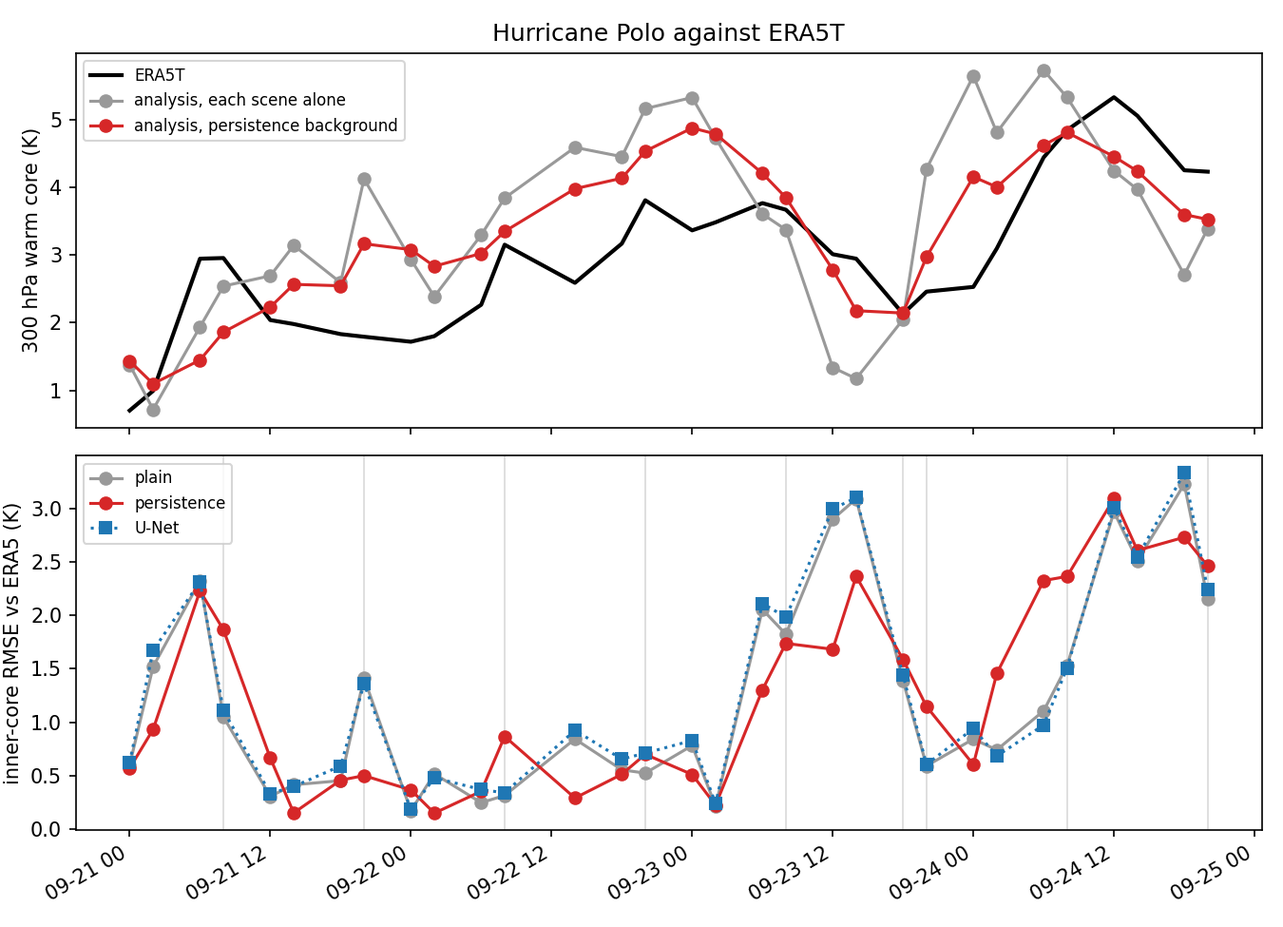
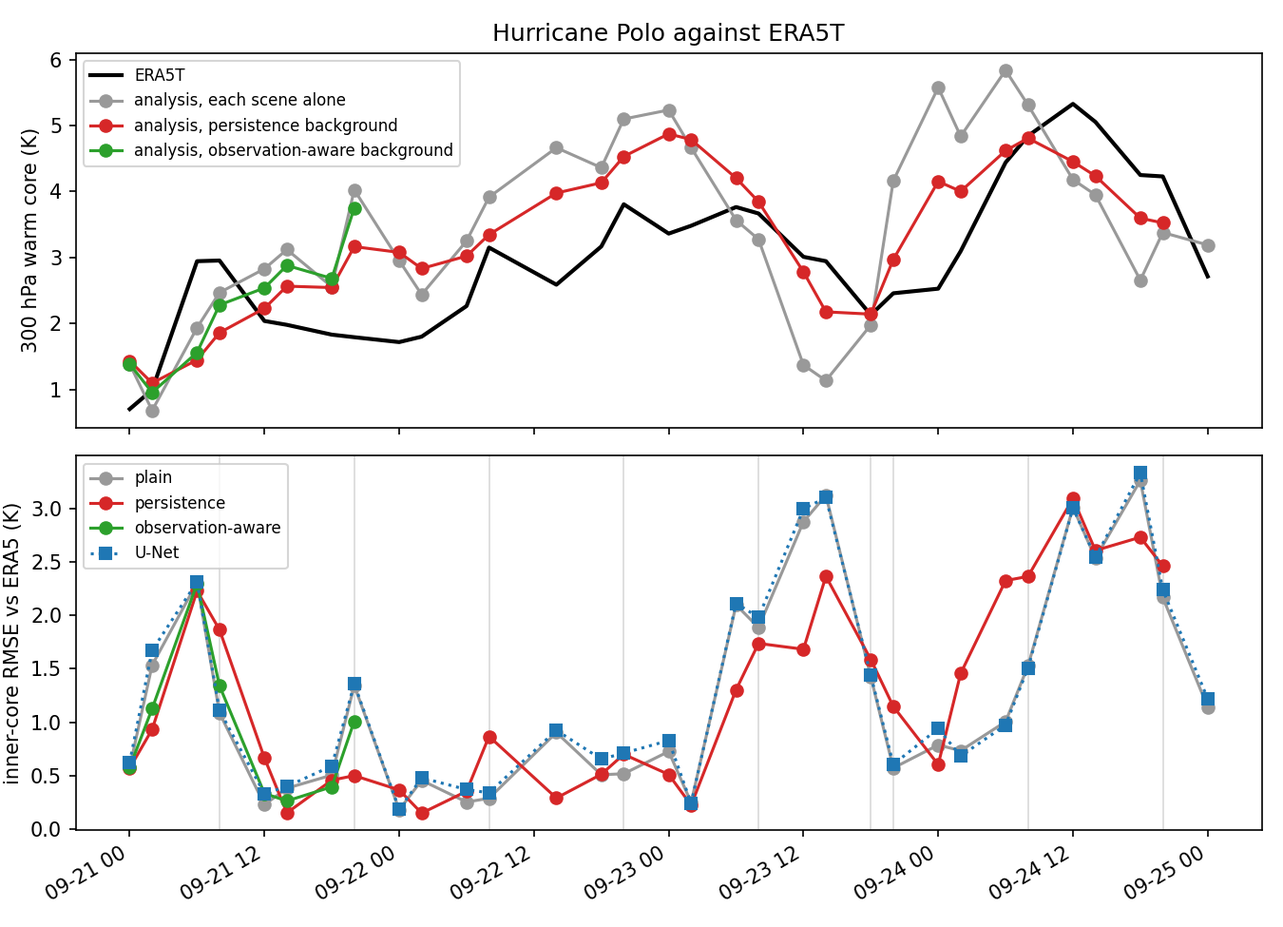
Polo scored against ERA5T: 1.20 K inner core on sounder scenes; persistence background shown to be a smoother

diff --git a/dashboard/index.html b/dashboard/index.html
@@ -220,6 +220,13 @@
   </div>
   <figure class="fig"><img src="img/polo_structure.webp" width="2940" height="672" loading="lazy" decoding="async" alt="Polo at 20 UTC on 22 September: observed GOES-19 channel 13, the retrieved 300 hPa temperature anomaly, the retrieved rain with IMERG contours, and a west to east cross-section of the temperature anomaly"></figure>
   <div class="callout"><p>Without a reanalysis, the checks are the ones a live system would have: does the analysis fit the sounder to within its assigned error, does the rain agree with IMERG, and does the core follow the storm. It does all three. The warm-core curve is the life history of the storm read from the satellites alone: the climb through the 21st, 5.2 and 5.3 K around the peak, the collapse to 1.2 K on the afternoon of the 23rd as the outer eyewall took over, and the recovery to 5.7 K at 00 UTC on the 24th. The cross-section at the peak overpass puts the core at 300 hPa, where a mature hurricane keeps it, and 26 of the 31 scenes peak between 250 and 400 hPa; the exceptions are the first hours and the replacement cycle. Rain over the domain agrees with IMERG to 5.9 mm/h, the same for the direct U-Net and the full system. The honest parts, again: the retrieved core is a trend indicator, not the physical core of a 892 hPa storm, which is far above 5 K; on the sounder scenes the inner-core rain (30 mm/h on average against IMERG's 14) is overestimated because the clear-sky microwave operator reads eyewall ice scattering as rain, and the U-Net does the same, so this is the operator's limitation from the cloud-ice audit showing up on a live case; the core spread is 0.07 to 0.14 K, as underdispersive as before; and the infrared-only hours between overpasses are noisier than the sounder hours, as on Melissa. The ERA5 comparison is added when ERA5T reaches the period, by rebuilding the same scenes with labels and rescoring the same analyses; nothing on the retrieval side changes.</p></div>
+  <h3>Scored against the reanalysis, two weeks later</h3>
+  <p>ERA5T for 21 to 25 September became available in early October. The scenes were rebuilt with the temperature label (32 scenes: the 31 above plus 00 UTC on the 25th, every scene file checksummed into the analyses it feeds) and the retrieval was run again, unchanged. The live analyses hold up: the inner-core 300 hPa error on the sounder scenes is 1.20 K, between Milton (1.13 K) and the 1.5 to 2 K of the Milton scenes without an overpass, and the whole-domain, all-level error is 1.38 K. The direct U-Net is within 0.05 K of the full system on every one of these numbers, as on Milton and Melissa. The ERA5 warm core peaks at 3.8 K against the retrieved 5.2 K, the same direction as on Milton, where the reanalysis is known to understate the core. The two periods the retrieval gets wrong are the eyewall replacement (06 to 14 UTC on the 23rd, where ERA5 keeps the core at 3 to 3.8 K while the retrieval collapses to 1.1 to 1.4 K; errors of 2 to 3 K) and the second half of the 24th, where the retrieval weakens the storm 6 to 12 hours before ERA5 does (2.5 to 3.3 K). Both are infrared-only stretches, both are shared by the U-Net, and both point at the same thing: when the eye is covered, the proxy reads the cold cloud top as a weaker core.</p>
+  <div class="tiles">
+    <div class="tile"><div class="n">1.20<span class="u">K</span></div><div class="l">inner-core 300 hPa RMSE against ERA5T on the nine sounder scenes (1.26 K over all 32; direct U-Net 1.25 and 1.31 K)</div></div>
+    <div class="tile"><div class="n">1.38<span class="u">K</span></div><div class="l">whole-domain RMSE over all ten levels (Milton 1.77 K, Melissa 1.15 K; U-Net 1.38 K)</div></div>
+    <div class="tile"><div class="n">0.53</div><div class="l">rank correlation of the retrieved 300 hPa warm-core series with the ERA5 one, bias +0.47 K, RMSE 1.31 K; the replacement cycle and the late 24th carry most of it</div></div>
+  </div>
   <h3>Time continuity: the previous analysis as a background</h3>
   <p>Each scene above was analysed on its own, which is why the warm-core curve jumps between neighbouring hours (4.1 K at 20 UTC on the 21st, 2.9 K four hours later). The first improvement to the system since Milton adds the analysis of the previous scene to the likelihood as a persistence background, member k conditioned on member k, with an error that grows with the age of that analysis: sigma squared equals 0.3 squared plus 0.15 squared times the gap in hours, in normalised units, so 0.37 at two hours and 0.47 at six, against 0.5 for the proxy term. No retraining, one flag (--persist 0.3), the scenes processed in time order. The 31 Polo scenes were rerun this way and scored against the plain run. The two runs used independent sampling noise (the first scene, which has no background, differs by 0.06 K between them for that reason alone); a seed option now pairs the noise scene by scene and member by member, and the paired rerun is the next step.</p>
   <figure class="fig"><img src="img/polo_persist.webp" width="1350" height="540" loading="lazy" decoding="async" alt="Polo 300 hPa warm core through time: each scene analysed alone in grey, with the previous analysis as background in red, and the best-track wind dashed"></figure>
@@ -229,12 +236,13 @@
     <div class="tile"><div class="n">&lt; 0.05<span class="u">K</span></div><div class="l">change in the bias-corrected sounder fit on every calibrated channel (3.93 / 2.28 / 1.20 / 0.68 / 0.64 to 3.91 / 2.33 / 1.24 / 0.72 / 0.60 K on ATMS 5 to 9, all nine overpasses pooled per channel)</div></div>
   </div>
   <div class="callout"><p>The background smooths the series without costing anything in observation space: the analyses fit the sounder as well as before and follow the intensity better. Two costs are visible and stated. The extremes are pulled in, the peak from 5.7 to 4.9 K and the eyewall-replacement minimum from 1.2 to 2.1 K, because the background counts about as much as the proxy. And the ensemble spread falls from 0.07 to 0.05 K: conditioning member k on its own past makes the members more alike, so the spread problem noted on all three storms is made slightly worse, and the next change to the system is spread calibration (more members, an inflated background, or a background drawn from a different member). The warm start option, in which each chain begins from the previous analysis diffused to mid-noise rather than from pure noise, is in the code but was not used for these numbers.</p></div>
+  <div class="callout"><p>Against ERA5T the verdict is plainer: the background is a smoother, not a better analysis. The warm-core series agrees with ERA5 better as a curve (RMSE 1.31 to 0.89 K, rank correlation 0.53 to 0.74) but the inner-core error on the sounder scenes rises from 1.20 to 1.47 K, because the background keeps pulling each sounder analysis toward an infrared-only predecessor. A causal exponential smoother with a six-hour time constant, applied to the plain series after the fact, reproduces the persistence numbers almost exactly (0.89 K, 0.76), which is what settles it. An observation-aware variant, in which the background counts for less after an infrared-only analysis and on a sounder scene, lands between the two on the first day (1.35 K on the sounder scenes in the unpaired run); the paired rerun on the rebuilt scenes is in progress. One provenance note: the persistence runs used an earlier cut of the seven 24 September scenes with 72 to 90 percent infrared coverage, so the 24th is not a like-for-like comparison, which is why every analysis now records the checksum of the scene it was made from. The option stays off by default.</p></div>
   <p class="fine tblcap">Polo, scene by scene (each scene analysed alone). Best track: NHC b-deck wind (kt) and pressure (hPa) interpolated to the analysis time. Warm core: 5 x 5 pixel centre minus the environment beyond 48 pixels, at 300 hPa; peak: the level where the anomaly is largest. Rain: mean rate in the central 16 x 16 pixels (about 70 km) for the analysis and for IMERG Late or Early Run. Fit: RMSE of simulated minus observed ATMS brightness temperature after the calibrated bias is removed, channels 7 / 8 / 9, on the overpass scenes.</p>
   <div class="tbl"><table>
     <thead><tr><th>time</th><th>ATMS</th><th>wind (kt)</th><th>MSLP (hPa)</th><th>warm core (K)</th><th>peak (hPa)</th><th>core rain (mm/h)</th><th>IMERG (mm/h)</th><th>fit 7 / 8 / 9 (K)</th></tr></thead>
     <tbody><tr><td>21 Sep 00 UTC</td><td>no</td><td>35</td><td>1004</td><td>1.38</td><td>600</td><td>4.2</td><td>1.9</td><td></td></tr><tr><td>21 Sep 02 UTC</td><td>no</td><td>37</td><td>1004</td><td>0.72</td><td>600</td><td>6.5</td><td>9.2</td><td></td></tr><tr><td>21 Sep 06 UTC</td><td>no</td><td>40</td><td>1003</td><td>1.94</td><td>300</td><td>8.3</td><td>7.6</td><td></td></tr><tr><td>21 Sep 08 UTC</td><td>yes</td><td>45</td><td>1001</td><td>2.54</td><td>300</td><td>41.5</td><td>8.0</td><td>0.8 / 0.6 / 0.8</td></tr><tr><td>21 Sep 12 UTC</td><td>no</td><td>55</td><td>997</td><td>2.69</td><td>300</td><td>10.4</td><td>11.5</td><td></td></tr><tr><td>21 Sep 14 UTC</td><td>no</td><td>60</td><td>991</td><td>3.14</td><td>300</td><td>12.2</td><td>11.5</td><td></td></tr><tr><td>21 Sep 18 UTC</td><td>no</td><td>70</td><td>978</td><td>2.59</td><td>300</td><td>10.8</td><td>13.1</td><td></td></tr><tr><td>21 Sep 20 UTC</td><td>yes</td><td>77</td><td>974</td><td>4.12</td><td>300</td><td>42.1</td><td>7.6</td><td>1.2 / 0.7 / 0.7</td></tr><tr><td>22 Sep 00 UTC</td><td>no</td><td>90</td><td>967</td><td>2.93</td><td>300</td><td>11.4</td><td>18.2</td><td></td></tr><tr><td>22 Sep 02 UTC</td><td>no</td><td>100</td><td>960</td><td>2.39</td><td>300</td><td>10.5</td><td>16.5</td><td></td></tr><tr><td>22 Sep 06 UTC</td><td>no</td><td>120</td><td>945</td><td>3.29</td><td>300</td><td>11.1</td><td>13.9</td><td></td></tr><tr><td>22 Sep 08 UTC</td><td>yes</td><td>127</td><td>939</td><td>3.84</td><td>300</td><td>42.8</td><td>16.5</td><td>1.3 / 0.7 / 0.6</td></tr><tr><td>22 Sep 14 UTC</td><td>no</td><td>145</td><td>915</td><td>4.59</td><td>300</td><td>17.4</td><td>13.4</td><td></td></tr><tr><td>22 Sep 18 UTC</td><td>no</td><td>155</td><td>892</td><td>4.45</td><td>300</td><td>13.5</td><td>14.0</td><td></td></tr><tr><td>22 Sep 20 UTC</td><td>yes</td><td>152</td><td>896</td><td>5.16</td><td>300</td><td>46.4</td><td>22.0</td><td>1.2 / 0.9 / 0.5</td></tr><tr><td>23 Sep 00 UTC</td><td>no</td><td>145</td><td>905</td><td>5.32</td><td>300</td><td>15.7</td><td>23.0</td><td></td></tr><tr><td>23 Sep 02 UTC</td><td>no</td><td>143</td><td>908</td><td>4.72</td><td>300</td><td>12.5</td><td>16.3</td><td></td></tr><tr><td>23 Sep 06 UTC</td><td>no</td><td>140</td><td>915</td><td>3.60</td><td>300</td><td>9.6</td><td>10.7</td><td></td></tr><tr><td>23 Sep 08 UTC</td><td>yes</td><td>137</td><td>918</td><td>3.37</td><td>300</td><td>15.8</td><td>12.8</td><td>1.2 / 0.7 / 0.6</td></tr><tr><td>23 Sep 12 UTC</td><td>no</td><td>130</td><td>925</td><td>1.34</td><td>500</td><td>5.1</td><td>1.9</td><td></td></tr><tr><td>23 Sep 14 UTC</td><td>no</td><td>128</td><td>927</td><td>1.17</td><td>500</td><td>5.4</td><td>3.3</td><td></td></tr><tr><td>23 Sep 18 UTC</td><td>yes</td><td>125</td><td>931</td><td>2.05</td><td>600</td><td>5.3</td><td>10.2</td><td>1.6 / 0.6 / 0.6</td></tr><tr><td>23 Sep 20 UTC</td><td>yes</td><td>130</td><td>928</td><td>4.27</td><td>300</td><td>13.8</td><td>11.3</td><td>1.2 / 0.6 / 0.6</td></tr><tr><td>24 Sep 00 UTC</td><td>no</td><td>140</td><td>923</td><td>5.64</td><td>300</td><td>16.7</td><td>11.3</td><td></td></tr><tr><td>24 Sep 02 UTC</td><td>no</td><td>140</td><td>923</td><td>4.81</td><td>300</td><td>12.2</td><td>11.7</td><td></td></tr><tr><td>24 Sep 06 UTC</td><td>no</td><td>140</td><td>923</td><td>5.73</td><td>300</td><td>16.3</td><td>15.5</td><td></td></tr><tr><td>24 Sep 08 UTC</td><td>yes</td><td>138</td><td>924</td><td>5.32</td><td>300</td><td>42.4</td><td>19.0</td><td>1.1 / 0.6 / 0.6</td></tr><tr><td>24 Sep 12 UTC</td><td>no</td><td>135</td><td>927</td><td>4.24</td><td>300</td><td>10.8</td><td>23.2</td><td></td></tr><tr><td>24 Sep 14 UTC</td><td>no</td><td>133</td><td>931</td><td>3.97</td><td>300</td><td>12.4</td><td>19.7</td><td></td></tr><tr><td>24 Sep 18 UTC</td><td>no</td><td>130</td><td>938</td><td>2.71</td><td>300</td><td>8.7</td><td>16.4</td><td></td></tr><tr><td>24 Sep 20 UTC</td><td>yes</td><td>130</td><td>937</td><td>3.39</td><td>300</td><td>18.8</td><td>14.7</td><td>1.3 / 0.6 / 0.4</td></tr></tbody>
   </table></div>
-  <p class="fine">Scenes built with vaughan/scripts/prepare_milton.py (--track atcf --atcf-id EP172026 --live --goes-satellite goes19, on the 02/08/14/20 and 00/06/12/18 UTC grids); retrieval and scoring in colab/vaughan_polo.ipynb; per-scene scores, the structure pack (polo_structure.json), the persistence comparison (polo_persist_compare.csv) and the figures in results/polo. Colab free tier, T4.</p>
+  <p class="fine">Scenes built with vaughan/scripts/prepare_milton.py (--track atcf --atcf-id EP172026 --live --goes-satellite goes19, on the 02/08/14/20 and 00/06/12/18 UTC grids); retrieval and scoring in colab/vaughan_polo.ipynb; per-scene scores, the structure pack (polo_structure.json), the persistence comparison (polo_persist_compare.csv), the ERA5T scores for every run (polo_era5_scores.csv) and the figures in results/polo. Colab, T4 and A100.</p>
 </section>
 
 <section id="forecast">

diff --git a/dashboard/src/sections.html b/dashboard/src/sections.html
@@ -173,6 +173,13 @@
   </div>
   <figure class="fig"><img src="img/polo_structure.webp" width="2940" height="672" loading="lazy" decoding="async" alt="Polo at 20 UTC on 22 September: observed GOES-19 channel 13, the retrieved 300 hPa temperature anomaly, the retrieved rain with IMERG contours, and a west to east cross-section of the temperature anomaly"></figure>
   <div class="callout"><p>Without a reanalysis, the checks are the ones a live system would have: does the analysis fit the sounder to within its assigned error, does the rain agree with IMERG, and does the core follow the storm. It does all three. The warm-core curve is the life history of the storm read from the satellites alone: the climb through the 21st, 5.2 and 5.3 K around the peak, the collapse to 1.2 K on the afternoon of the 23rd as the outer eyewall took over, and the recovery to 5.7 K at 00 UTC on the 24th. The cross-section at the peak overpass puts the core at 300 hPa, where a mature hurricane keeps it, and 26 of the 31 scenes peak between 250 and 400 hPa; the exceptions are the first hours and the replacement cycle. Rain over the domain agrees with IMERG to 5.9 mm/h, the same for the direct U-Net and the full system. The honest parts, again: the retrieved core is a trend indicator, not the physical core of a 892 hPa storm, which is far above 5 K; on the sounder scenes the inner-core rain (30 mm/h on average against IMERG's 14) is overestimated because the clear-sky microwave operator reads eyewall ice scattering as rain, and the U-Net does the same, so this is the operator's limitation from the cloud-ice audit showing up on a live case; the core spread is 0.07 to 0.14 K, as underdispersive as before; and the infrared-only hours between overpasses are noisier than the sounder hours, as on Melissa. The ERA5 comparison is added when ERA5T reaches the period, by rebuilding the same scenes with labels and rescoring the same analyses; nothing on the retrieval side changes.</p></div>
+  <h3>Scored against the reanalysis, two weeks later</h3>
+  <p>ERA5T for 21 to 25 September became available in early October. The scenes were rebuilt with the temperature label (32 scenes: the 31 above plus 00 UTC on the 25th, every scene file checksummed into the analyses it feeds) and the retrieval was run again, unchanged. The live analyses hold up: the inner-core 300 hPa error on the sounder scenes is 1.20 K, between Milton (1.13 K) and the 1.5 to 2 K of the Milton scenes without an overpass, and the whole-domain, all-level error is 1.38 K. The direct U-Net is within 0.05 K of the full system on every one of these numbers, as on Milton and Melissa. The ERA5 warm core peaks at 3.8 K against the retrieved 5.2 K, the same direction as on Milton, where the reanalysis is known to understate the core. The two periods the retrieval gets wrong are the eyewall replacement (06 to 14 UTC on the 23rd, where ERA5 keeps the core at 3 to 3.8 K while the retrieval collapses to 1.1 to 1.4 K; errors of 2 to 3 K) and the second half of the 24th, where the retrieval weakens the storm 6 to 12 hours before ERA5 does (2.5 to 3.3 K). Both are infrared-only stretches, both are shared by the U-Net, and both point at the same thing: when the eye is covered, the proxy reads the cold cloud top as a weaker core.</p>
+  <div class="tiles">
+    <div class="tile"><div class="n">1.20<span class="u">K</span></div><div class="l">inner-core 300 hPa RMSE against ERA5T on the nine sounder scenes (1.26 K over all 32; direct U-Net 1.25 and 1.31 K)</div></div>
+    <div class="tile"><div class="n">1.38<span class="u">K</span></div><div class="l">whole-domain RMSE over all ten levels (Milton 1.77 K, Melissa 1.15 K; U-Net 1.38 K)</div></div>
+    <div class="tile"><div class="n">0.53</div><div class="l">rank correlation of the retrieved 300 hPa warm-core series with the ERA5 one, bias +0.47 K, RMSE 1.31 K; the replacement cycle and the late 24th carry most of it</div></div>
+  </div>
   <h3>Time continuity: the previous analysis as a background</h3>
   <p>Each scene above was analysed on its own, which is why the warm-core curve jumps between neighbouring hours (4.1 K at 20 UTC on the 21st, 2.9 K four hours later). The first improvement to the system since Milton adds the analysis of the previous scene to the likelihood as a persistence background, member k conditioned on member k, with an error that grows with the age of that analysis: sigma squared equals 0.3 squared plus 0.15 squared times the gap in hours, in normalised units, so 0.37 at two hours and 0.47 at six, against 0.5 for the proxy term. No retraining, one flag (--persist 0.3), the scenes processed in time order. The 31 Polo scenes were rerun this way and scored against the plain run. The two runs used independent sampling noise (the first scene, which has no background, differs by 0.06 K between them for that reason alone); a seed option now pairs the noise scene by scene and member by member, and the paired rerun is the next step.</p>
   <figure class="fig"><img src="img/polo_persist.webp" width="1350" height="540" loading="lazy" decoding="async" alt="Polo 300 hPa warm core through time: each scene analysed alone in grey, with the previous analysis as background in red, and the best-track wind dashed"></figure>
@@ -182,12 +189,13 @@
     <div class="tile"><div class="n">&lt; 0.05<span class="u">K</span></div><div class="l">change in the bias-corrected sounder fit on every calibrated channel (3.93 / 2.28 / 1.20 / 0.68 / 0.64 to 3.91 / 2.33 / 1.24 / 0.72 / 0.60 K on ATMS 5 to 9, all nine overpasses pooled per channel)</div></div>
   </div>
   <div class="callout"><p>The background smooths the series without costing anything in observation space: the analyses fit the sounder as well as before and follow the intensity better. Two costs are visible and stated. The extremes are pulled in, the peak from 5.7 to 4.9 K and the eyewall-replacement minimum from 1.2 to 2.1 K, because the background counts about as much as the proxy. And the ensemble spread falls from 0.07 to 0.05 K: conditioning member k on its own past makes the members more alike, so the spread problem noted on all three storms is made slightly worse, and the next change to the system is spread calibration (more members, an inflated background, or a background drawn from a different member). The warm start option, in which each chain begins from the previous analysis diffused to mid-noise rather than from pure noise, is in the code but was not used for these numbers.</p></div>
+  <div class="callout"><p>Against ERA5T the verdict is plainer: the background is a smoother, not a better analysis. The warm-core series agrees with ERA5 better as a curve (RMSE 1.31 to 0.89 K, rank correlation 0.53 to 0.74) but the inner-core error on the sounder scenes rises from 1.20 to 1.47 K, because the background keeps pulling each sounder analysis toward an infrared-only predecessor. A causal exponential smoother with a six-hour time constant, applied to the plain series after the fact, reproduces the persistence numbers almost exactly (0.89 K, 0.76), which is what settles it. An observation-aware variant, in which the background counts for less after an infrared-only analysis and on a sounder scene, lands between the two on the first day (1.35 K on the sounder scenes in the unpaired run); the paired rerun on the rebuilt scenes is in progress. One provenance note: the persistence runs used an earlier cut of the seven 24 September scenes with 72 to 90 percent infrared coverage, so the 24th is not a like-for-like comparison, which is why every analysis now records the checksum of the scene it was made from. The option stays off by default.</p></div>
   <p class="fine tblcap">Polo, scene by scene (each scene analysed alone). Best track: NHC b-deck wind (kt) and pressure (hPa) interpolated to the analysis time. Warm core: 5 x 5 pixel centre minus the environment beyond 48 pixels, at 300 hPa; peak: the level where the anomaly is largest. Rain: mean rate in the central 16 x 16 pixels (about 70 km) for the analysis and for IMERG Late or Early Run. Fit: RMSE of simulated minus observed ATMS brightness temperature after the calibrated bias is removed, channels 7 / 8 / 9, on the overpass scenes.</p>
   <div class="tbl"><table>
     <thead><tr><th>time</th><th>ATMS</th><th>wind (kt)</th><th>MSLP (hPa)</th><th>warm core (K)</th><th>peak (hPa)</th><th>core rain (mm/h)</th><th>IMERG (mm/h)</th><th>fit 7 / 8 / 9 (K)</th></tr></thead>
     <tbody><tr><td>21 Sep 00 UTC</td><td>no</td><td>35</td><td>1004</td><td>1.38</td><td>600</td><td>4.2</td><td>1.9</td><td></td></tr><tr><td>21 Sep 02 UTC</td><td>no</td><td>37</td><td>1004</td><td>0.72</td><td>600</td><td>6.5</td><td>9.2</td><td></td></tr><tr><td>21 Sep 06 UTC</td><td>no</td><td>40</td><td>1003</td><td>1.94</td><td>300</td><td>8.3</td><td>7.6</td><td></td></tr><tr><td>21 Sep 08 UTC</td><td>yes</td><td>45</td><td>1001</td><td>2.54</td><td>300</td><td>41.5</td><td>8.0</td><td>0.8 / 0.6 / 0.8</td></tr><tr><td>21 Sep 12 UTC</td><td>no</td><td>55</td><td>997</td><td>2.69</td><td>300</td><td>10.4</td><td>11.5</td><td></td></tr><tr><td>21 Sep 14 UTC</td><td>no</td><td>60</td><td>991</td><td>3.14</td><td>300</td><td>12.2</td><td>11.5</td><td></td></tr><tr><td>21 Sep 18 UTC</td><td>no</td><td>70</td><td>978</td><td>2.59</td><td>300</td><td>10.8</td><td>13.1</td><td></td></tr><tr><td>21 Sep 20 UTC</td><td>yes</td><td>77</td><td>974</td><td>4.12</td><td>300</td><td>42.1</td><td>7.6</td><td>1.2 / 0.7 / 0.7</td></tr><tr><td>22 Sep 00 UTC</td><td>no</td><td>90</td><td>967</td><td>2.93</td><td>300</td><td>11.4</td><td>18.2</td><td></td></tr><tr><td>22 Sep 02 UTC</td><td>no</td><td>100</td><td>960</td><td>2.39</td><td>300</td><td>10.5</td><td>16.5</td><td></td></tr><tr><td>22 Sep 06 UTC</td><td>no</td><td>120</td><td>945</td><td>3.29</td><td>300</td><td>11.1</td><td>13.9</td><td></td></tr><tr><td>22 Sep 08 UTC</td><td>yes</td><td>127</td><td>939</td><td>3.84</td><td>300</td><td>42.8</td><td>16.5</td><td>1.3 / 0.7 / 0.6</td></tr><tr><td>22 Sep 14 UTC</td><td>no</td><td>145</td><td>915</td><td>4.59</td><td>300</td><td>17.4</td><td>13.4</td><td></td></tr><tr><td>22 Sep 18 UTC</td><td>no</td><td>155</td><td>892</td><td>4.45</td><td>300</td><td>13.5</td><td>14.0</td><td></td></tr><tr><td>22 Sep 20 UTC</td><td>yes</td><td>152</td><td>896</td><td>5.16</td><td>300</td><td>46.4</td><td>22.0</td><td>1.2 / 0.9 / 0.5</td></tr><tr><td>23 Sep 00 UTC</td><td>no</td><td>145</td><td>905</td><td>5.32</td><td>300</td><td>15.7</td><td>23.0</td><td></td></tr><tr><td>23 Sep 02 UTC</td><td>no</td><td>143</td><td>908</td><td>4.72</td><td>300</td><td>12.5</td><td>16.3</td><td></td></tr><tr><td>23 Sep 06 UTC</td><td>no</td><td>140</td><td>915</td><td>3.60</td><td>300</td><td>9.6</td><td>10.7</td><td></td></tr><tr><td>23 Sep 08 UTC</td><td>yes</td><td>137</td><td>918</td><td>3.37</td><td>300</td><td>15.8</td><td>12.8</td><td>1.2 / 0.7 / 0.6</td></tr><tr><td>23 Sep 12 UTC</td><td>no</td><td>130</td><td>925</td><td>1.34</td><td>500</td><td>5.1</td><td>1.9</td><td></td></tr><tr><td>23 Sep 14 UTC</td><td>no</td><td>128</td><td>927</td><td>1.17</td><td>500</td><td>5.4</td><td>3.3</td><td></td></tr><tr><td>23 Sep 18 UTC</td><td>yes</td><td>125</td><td>931</td><td>2.05</td><td>600</td><td>5.3</td><td>10.2</td><td>1.6 / 0.6 / 0.6</td></tr><tr><td>23 Sep 20 UTC</td><td>yes</td><td>130</td><td>928</td><td>4.27</td><td>300</td><td>13.8</td><td>11.3</td><td>1.2 / 0.6 / 0.6</td></tr><tr><td>24 Sep 00 UTC</td><td>no</td><td>140</td><td>923</td><td>5.64</td><td>300</td><td>16.7</td><td>11.3</td><td></td></tr><tr><td>24 Sep 02 UTC</td><td>no</td><td>140</td><td>923</td><td>4.81</td><td>300</td><td>12.2</td><td>11.7</td><td></td></tr><tr><td>24 Sep 06 UTC</td><td>no</td><td>140</td><td>923</td><td>5.73</td><td>300</td><td>16.3</td><td>15.5</td><td></td></tr><tr><td>24 Sep 08 UTC</td><td>yes</td><td>138</td><td>924</td><td>5.32</td><td>300</td><td>42.4</td><td>19.0</td><td>1.1 / 0.6 / 0.6</td></tr><tr><td>24 Sep 12 UTC</td><td>no</td><td>135</td><td>927</td><td>4.24</td><td>300</td><td>10.8</td><td>23.2</td><td></td></tr><tr><td>24 Sep 14 UTC</td><td>no</td><td>133</td><td>931</td><td>3.97</td><td>300</td><td>12.4</td><td>19.7</td><td></td></tr><tr><td>24 Sep 18 UTC</td><td>no</td><td>130</td><td>938</td><td>2.71</td><td>300</td><td>8.7</td><td>16.4</td><td></td></tr><tr><td>24 Sep 20 UTC</td><td>yes</td><td>130</td><td>937</td><td>3.39</td><td>300</td><td>18.8</td><td>14.7</td><td>1.3 / 0.6 / 0.4</td></tr></tbody>
   </table></div>
-  <p class="fine">Scenes built with vaughan/scripts/prepare_milton.py (--track atcf --atcf-id EP172026 --live --goes-satellite goes19, on the 02/08/14/20 and 00/06/12/18 UTC grids); retrieval and scoring in colab/vaughan_polo.ipynb; per-scene scores, the structure pack (polo_structure.json), the persistence comparison (polo_persist_compare.csv) and the figures in results/polo. Colab free tier, T4.</p>
+  <p class="fine">Scenes built with vaughan/scripts/prepare_milton.py (--track atcf --atcf-id EP172026 --live --goes-satellite goes19, on the 02/08/14/20 and 00/06/12/18 UTC grids); retrieval and scoring in colab/vaughan_polo.ipynb; per-scene scores, the structure pack (polo_structure.json), the persistence comparison (polo_persist_compare.csv), the ERA5T scores for every run (polo_era5_scores.csv) and the figures in results/polo. Colab, T4 and A100.</p>
 </section>
 
 <section id="forecast">

diff --git a/dashboard/sw.js b/dashboard/sw.js
@@ -1,5 +1,5 @@
 /* Vaughan dashboard service worker: shell and data cache-first with a versioned cache, the page itself network-first. */
-const VERSION = 'c59ac0d8';
+const VERSION = '035c4f5e';
 const CACHE = `vaughan-${VERSION}`;
 const SHELL = ["./", "index.html", "styles.0120ec49.css", "favicon.svg", "data/manifest.json", "data/fields.9cea091c.bin", "js/colormap.4c095e89.js", "js/dom.5283f545.js", "js/data.fdb4ce73.js", "js/fields.42332423.js", "js/charts.1e0f3424.js", "js/app.js", "img/gulf/00.webp", "img/gulf/01.webp", "img/gulf/02.webp", "img/gulf/03.webp", "img/gulf/04.webp", "img/gulf/05.webp", "img/gulf/06.webp", "img/gulf/07.webp", "img/gulf/08.webp", "img/gulf/09.webp", "img/gulf/10.webp", "img/gulf/11.webp", "img/gulf/12.webp", "img/gulf/13.webp", "img/gulf/14.webp", "img/gulf/15.webp", "img/core/00.webp", "img/core/01.webp", "img/core/02.webp", "img/core/03.webp", "img/core/04.webp", "img/core/05.webp", "img/core/06.webp", "img/core/07.webp", "img/core/08.webp", "img/core/09.webp", "img/core/10.webp", "img/core/11.webp", "img/core/12.webp", "img/core/13.webp", "img/core/14.webp", "img/core/15.webp", "img/melissa_summary.webp", "img/weathernext_milton.webp", "img/polo_summary.webp", "img/polo_structure.webp", "img/polo_persist.webp"];
 

diff --git a/README.md b/README.md
@@ -121,6 +121,13 @@ the warm-core series with the plain run. On Polo (31 scenes) the background rais
 300 hPa warm core with the best-track intensity from 0.79 to 0.87 and halved the mean change between consecutive
 scenes (gaps of 2, 4 and 6 h; 0.81 to 0.39 K) while the bias-corrected sounder fit stayed within 0.05 K per channel; the peak warm core fell from
 5.7 to 4.9 K and the ensemble spread from 0.07 to 0.05 K, the members being conditioned on each other's past.
+Scored against ERA5T once it covered the period (cell P7; 32 rebuilt scenes), the plain live analyses have an inner-core
+300 hPa RMSE of 1.20 K on the sounder scenes, 1.26 K over all scenes and 1.38 K over the whole domain and all levels,
+with the direct U-Net within 0.05 K. The persistence background smooths the warm-core series (RMSE against the ERA5
+series 1.31 to 0.89 K) but raises the sounder-scene inner-core error to 1.47 K, and a causal exponential smoother with a
+6 h time constant on the plain series reproduces its numbers; it is a smoother, not a better analysis, and stays off by
+default. `--persist-ir-prev` and `--persist-mw-now` scale the background error after an infrared-only analysis and on a
+sounder scene; the paired comparison on the rebuilt scenes (cells P2b, P5c) is in progress.
 
 ## Training and inference
 
